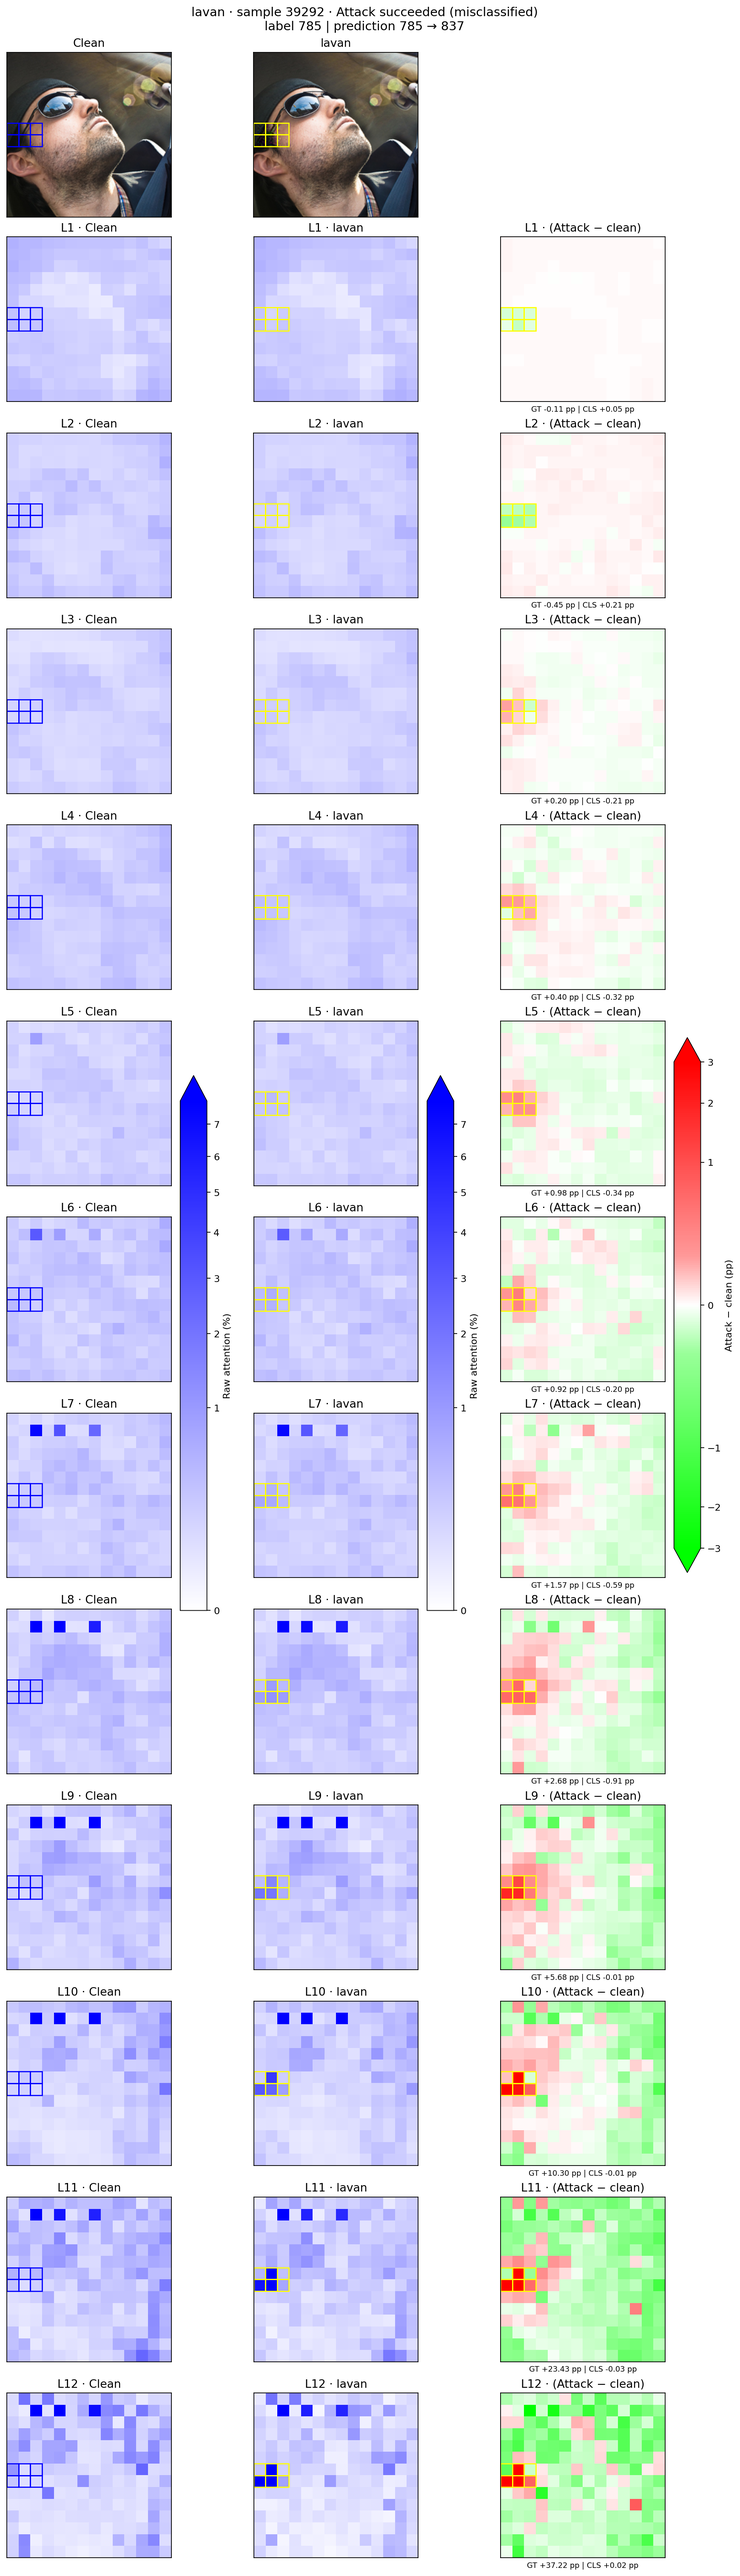
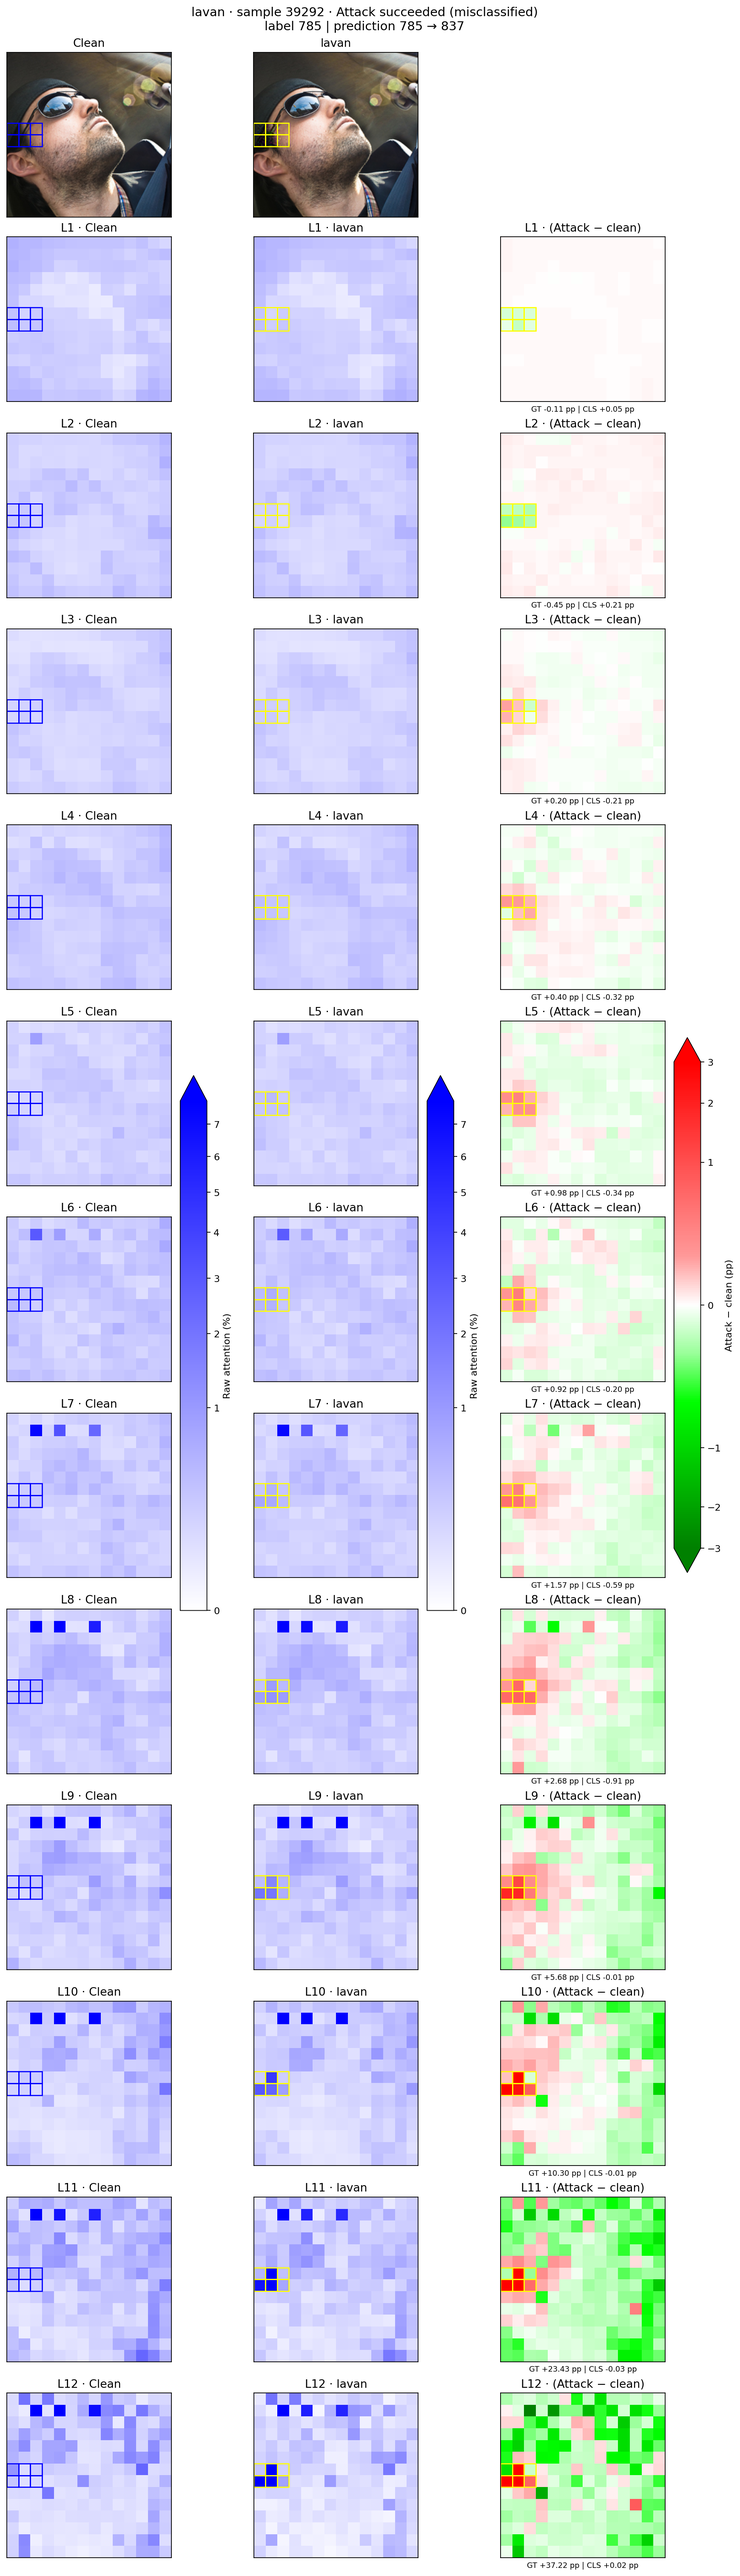
Diff heatmap green side: light green -> bright green -> true green (#008000) end

Changed region(s): [[0.6828, 0.8435, 0.9, 0.9997], [0.9, 0.5311, 0.9621, 0.6248], [0.869, 0.781, 0.9, 0.8122]]

diff --git a/01_patch_attack_detector/experiments/characterization/02_compare_attention_success_failure.py b/01_patch_attack_detector/experiments/characterization/02_compare_attention_success_failure.py
@@ -29,12 +29,12 @@ OUTCOMES = {'attack_success': (1, 'Attack succeeded (misclassified)'),
 # 방어 관점에서 공격 성공=critical, 실패=good인 상태 색 사용 -- 이름의 의미와 색이 서로 확인해준다.
 OUTCOME_COLORS = {'attack_success': '#d03b3b', 'attack_fail': '#0ca30c'}
 # 양 끝이 검정으로 가면 원본/공격/차이가 다 어두워져서 구분이 안 된다 -- 끝 색을 원색으로 둔다.
-# raw attention: 흰색 -> 순수 파랑. 차이: 감소=연초록->초록, 0=흰색, 증가(attention이 더 몰림)=순수 빨강.
+# raw attention: 흰색 -> 순수 파랑. 차이: 감소=연초록->밝은 초록->진한 초록(#008000), 0=흰색, 증가(attention이 더 몰림)=순수 빨강.
 SEQUENTIAL = LinearSegmentedColormap.from_list('white_blue', ['#ffffff', '#0000ff'])
 # 0은 흰색. 흰색에서 바로 연한 초록/연한 빨강으로 건너뛴 뒤 원색으로 진해진다 -- 선형으로
 # 흰색->원색을 이으면 작은 변화가 흰색과 구분이 안 된다.
 DIVERGING = LinearSegmentedColormap.from_list('green_white_red', [
-    (0.0, '#00ff00'), (0.4, '#99ff99'), (0.5, '#ffffff'), (0.6, '#ff9999'), (1.0, '#ff0000')])
+    (0.0, '#008000'), (0.3, '#00ff00'), (0.4, '#99ff99'), (0.5, '#ffffff'), (0.6, '#ff9999'), (1.0, '#ff0000')])
 
 
 class SignedPowerNorm(Normalize):
